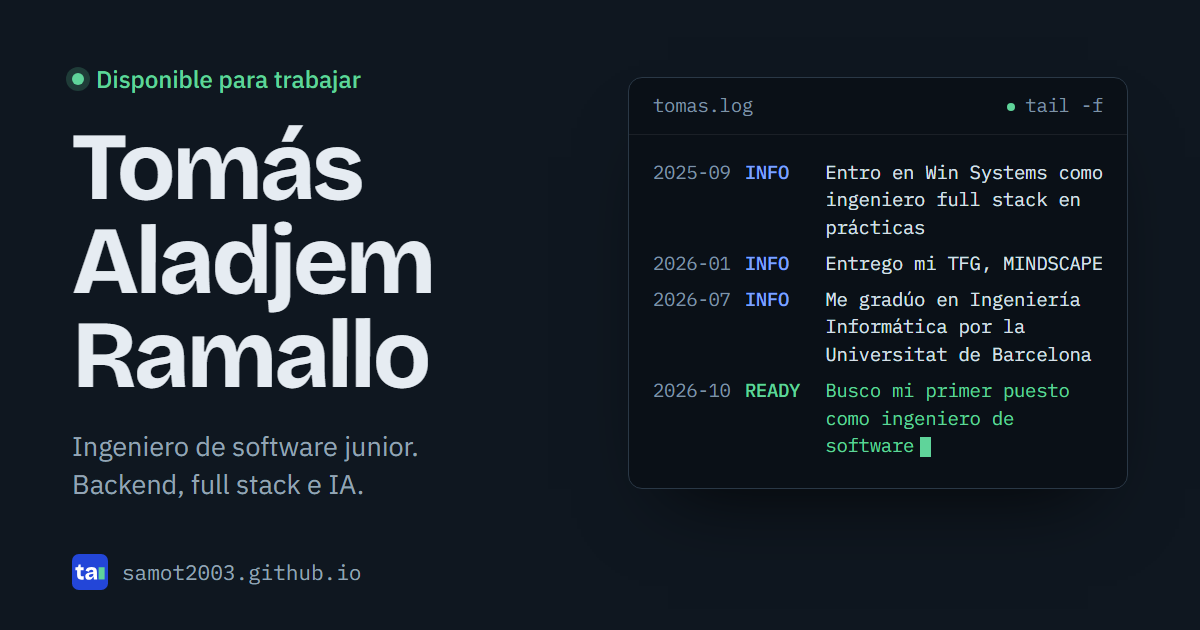
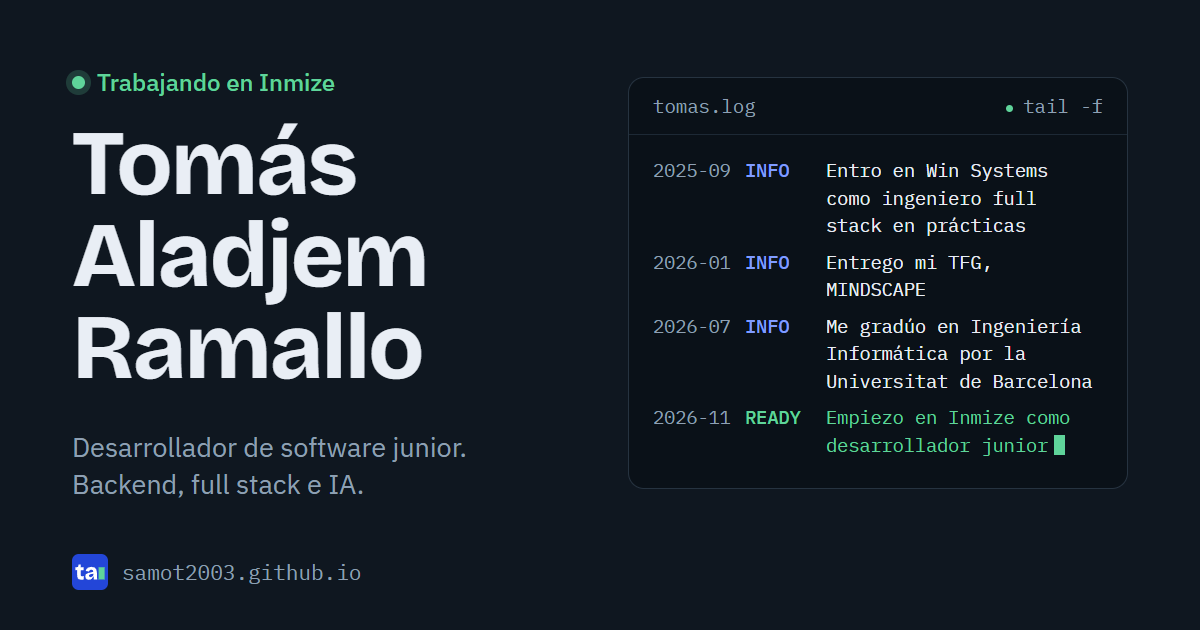
Añade el puesto en Inmize al portfolio
Nuevo estado, línea en el log y entrada de experiencia en español e
inglés. Quita los textos de búsqueda de empleo y actualiza los metadatos
y la imagen de previsualización.

diff --git a/src/content.ts b/src/content.ts
@@ -29,7 +29,7 @@ export const links = {
 };
 
 const es = {
-  pageTitle: "Tomás Aladjem Ramallo · Ingeniero de software",
+  pageTitle: "Tomás Aladjem Ramallo · Desarrollador de software",
   nav: {
     experience: "Experiencia",
     projects: "Proyectos",
@@ -39,8 +39,8 @@ const es = {
   },
   hero: {
     name: "Tomás Aladjem Ramallo",
-    role: "Ingeniero de software junior en Barcelona. Trabajo en backend, full stack y aplicaciones con IA.",
-    status: "Disponible para trabajar",
+    role: "Desarrollador de software junior en Inmize, en Barcelona. Backend, full stack y aplicaciones con IA.",
+    status: "Trabajando en Inmize",
     cv: "Descargar CV",
     write: "Escríbeme",
     logLabel: "Trayectoria en formato log",
@@ -51,11 +51,16 @@ const es = {
       { date: "2026-01", level: "INFO", text: "Entrego mi TFG, MINDSCAPE" },
       { date: "2026-02", level: "INFO", text: "Termino las prácticas y empiezo el Erasmus+ en la Università degli Studi di Trento" },
       { date: "2026-07", level: "INFO", text: "Me gradúo en Ingeniería Informática por la Universitat de Barcelona" },
-      { date: "2026-10", level: "READY", text: "Busco mi primer puesto como ingeniero de software" },
+      { date: "2026-11", level: "READY", text: "Empiezo como desarrollador de software junior en Inmize" },
     ] as LogLine[],
   },
   experience: {
     title: "Experiencia",
+    current: {
+      company: "Inmize",
+      role: "Desarrollador de software junior",
+      period: "Noviembre 2026 – actualidad, Barcelona",
+    },
     company: "Win Systems",
     role: "Ingeniero de software full stack en prácticas",
     period: "Septiembre 2025 – febrero 2026, Barcelona",
@@ -225,7 +230,7 @@ const es = {
   },
   contact: {
     title: "Contacto",
-    text: "Busco un puesto de ingeniero de software junior en backend, full stack o IA, en Barcelona o en remoto. Si tienes una oferta o quieres hablar de algún proyecto, escríbeme.",
+    text: "Si quieres hablar de algún proyecto, escríbeme.",
     email: "Correo",
     cvTitle: "Currículum en PDF",
     cvLangs: { es: "Español", en: "Inglés", ca: "Catalán" },
@@ -235,7 +240,7 @@ const es = {
 };
 
 const en: typeof es = {
-  pageTitle: "Tomás Aladjem Ramallo · Software engineer",
+  pageTitle: "Tomás Aladjem Ramallo · Software developer",
   nav: {
     experience: "Experience",
     projects: "Projects",
@@ -245,8 +250,8 @@ const en: typeof es = {
   },
   hero: {
     name: "Tomás Aladjem Ramallo",
-    role: "Junior software engineer based in Barcelona. I work on backend, full stack and AI applications.",
-    status: "Open to work",
+    role: "Junior software developer at Inmize, in Barcelona. Backend, full stack and AI applications.",
+    status: "Working at Inmize",
     cv: "Download CV",
     write: "Email me",
     logLabel: "Career path as a log",
@@ -257,11 +262,16 @@ const en: typeof es = {
       { date: "2026-01", level: "INFO", text: "Submit my bachelor's thesis, MINDSCAPE" },
       { date: "2026-02", level: "INFO", text: "Finish the internship and start Erasmus+ at the University of Trento" },
       { date: "2026-07", level: "INFO", text: "Graduate in Computer Engineering from the University of Barcelona" },
-      { date: "2026-10", level: "READY", text: "Looking for my first software engineering role" },
+      { date: "2026-11", level: "READY", text: "Start as a junior software developer at Inmize" },
     ],
   },
   experience: {
     title: "Experience",
+    current: {
+      company: "Inmize",
+      role: "Junior software developer",
+      period: "November 2026 – present, Barcelona",
+    },
     company: "Win Systems",
     role: "Full stack software engineering intern",
     period: "September 2025 – February 2026, Barcelona",
@@ -423,7 +433,7 @@ const en: typeof es = {
   },
   contact: {
     title: "Contact",
-    text: "I'm looking for a junior software engineering role in backend, full stack or AI, in Barcelona or remote. If you have an opening or want to talk about a project, email me.",
+    text: "If you want to talk about a project, email me.",
     email: "Email",
     cvTitle: "CV as PDF",
     cvLangs: { es: "Spanish", en: "English", ca: "Catalan" },

diff --git a/src/app/layout.tsx b/src/app/layout.tsx
@@ -22,12 +22,12 @@ const mono = IBM_Plex_Mono({
 export const metadata: Metadata = {
   // Social networks need absolute URLs for the preview image (app/opengraph-image.png).
   metadataBase: new URL("https://samot2003.github.io"),
-  title: "Tomás Aladjem Ramallo · Ingeniero de software",
+  title: "Tomás Aladjem Ramallo · Desarrollador de software",
   description:
-    "Ingeniero de software junior en Barcelona. Backend en C#/.NET y TypeScript, full stack con React y Next.js, y aplicaciones con IA multimodal.",
+    "Desarrollador de software junior en Inmize, en Barcelona. Backend en C#/.NET y TypeScript, full stack con React y Next.js, y aplicaciones con IA multimodal.",
   openGraph: {
-    title: "Tomás Aladjem Ramallo · Ingeniero de software",
-    description: "Backend, full stack e IA. Experiencia en Win Systems, TFG sobre IA multimodal y Dockly, una plataforma de reserva de amarres.",
+    title: "Tomás Aladjem Ramallo · Desarrollador de software",
+    description: "Backend, full stack e IA. Trabajo en Inmize, experiencia en Win Systems, TFG sobre IA multimodal y Dockly, una plataforma de reserva de amarres.",
     url: "/",
     siteName: "Tomás Aladjem Ramallo",
     locale: "es_ES",

diff --git a/src/components/Portfolio.tsx b/src/components/Portfolio.tsx
@@ -76,6 +76,12 @@ export default function Portfolio() {
         <section id="experiencia" className="section">
           <h2 className="section-title">{t.experience.title}</h2>
           <div className="section-body">
+            <div className="job-head job-current">
+              <h3>{t.experience.current.company}</h3>
+              <p className="job-role">{t.experience.current.role}</p>
+              <p className="meta">{t.experience.current.period}</p>
+            </div>
+
             <div className="job-head">
               <h3>{t.experience.company}</h3>
               <p className="job-role">{t.experience.role}</p>

diff --git a/src/app/globals.css b/src/app/globals.css
@@ -356,6 +356,10 @@ img {
   margin-top: 6px;
 }
 
+.job-current {
+  margin-bottom: 48px;
+}
+
 .meta {
   color: var(--muted);
   font-size: 0.9375rem;
